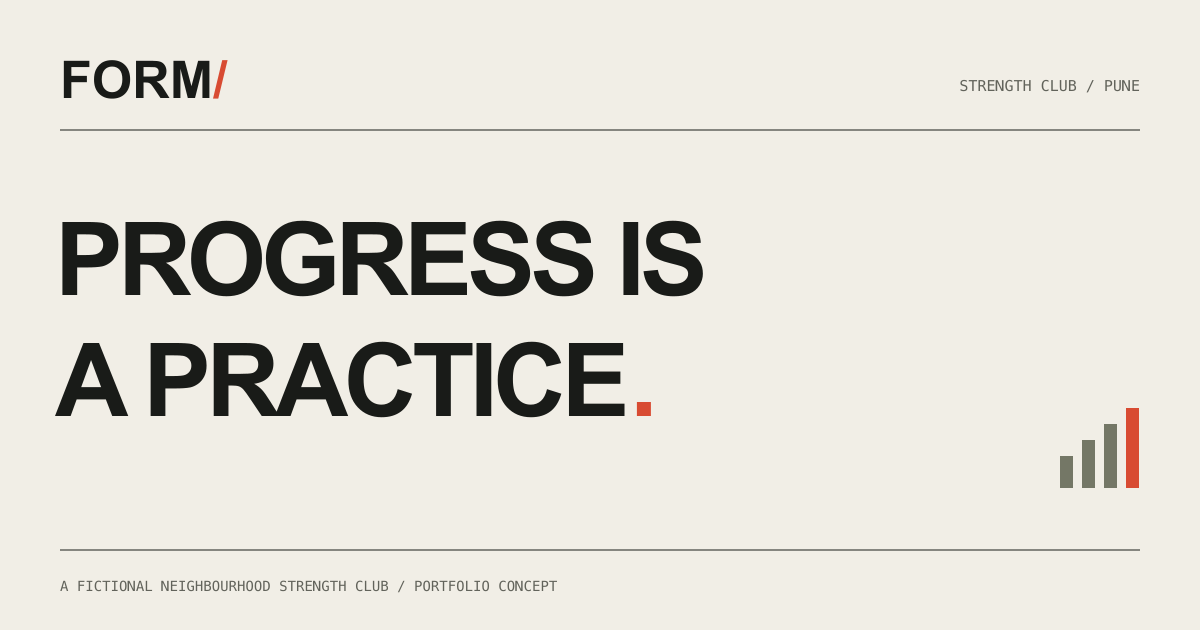
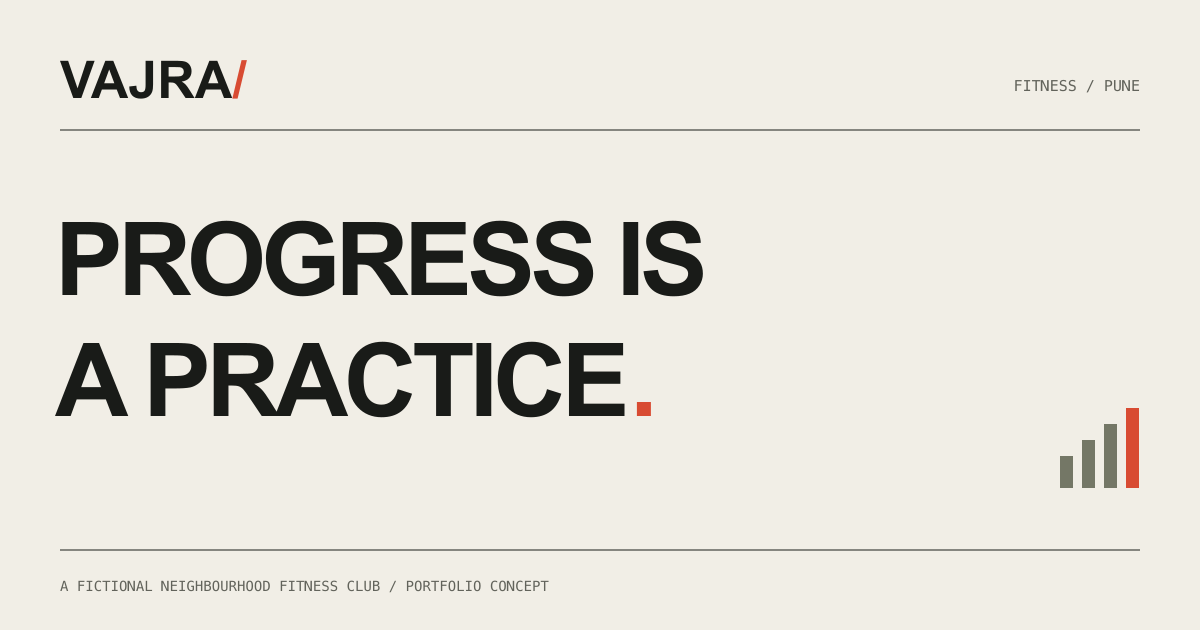
fix:finalised for deployment

Changed region(s): [[0.0308, 0.0905, 0.2158, 0.181], [0.2467, 0.9048, 0.4625, 0.9349], [0.8017, 0.1206, 0.8942, 0.1508]]

diff --git a/app/layout.tsx b/app/layout.tsx
@@ -26,17 +26,15 @@ const sans = localFont({
   display: "swap",
 });
 export const metadata: Metadata = {
-  metadataBase: new URL(
-    "https://form-strength-club-pune.lightmap1025.chatgpt.site",
-  ),
+  metadataBase: new URL("https://vajra-fitness-pune.lightmap1025.chatgpt.site"),
   title: {
-    default: "FORM / Strength Club — Progress is a practice.",
-    template: "%s / FORM Strength Club",
+    default: "VAJRA FITNESS — Progress is a practice.",
+    template: "%s / VAJRA FITNESS",
   },
   description:
-    "Strength training, thoughtful coaching, and a place to keep showing up. Explore FORM, a fictional neighbourhood strength club in Pune.",
+    "Strength training, thoughtful coaching, and a place to keep showing up. Explore VAJRA FITNESS, a fictional neighbourhood strength club in Pune.",
   openGraph: {
-    title: "FORM / Strength Club",
+    title: "VAJRA FITNESS",
     description:
       "Progress is a practice. A fictional neighbourhood strength club in Pune.",
     images: [
@@ -44,7 +42,7 @@ export const metadata: Metadata = {
         url: "/social.png",
         width: 1200,
         height: 630,
-        alt: "FORM Strength Club. Progress is a practice. Portfolio concept.",
+        alt: "VAJRA FITNESS. Progress is a practice. Portfolio concept.",
       },
     ],
     type: "website",
@@ -96,7 +94,8 @@ export default function RootLayout({
             </div>
             <div className="footer-bottom">
               <p>
-                FORM is a fictional portfolio concept. Images are AI-generated.
+                VAJRA FITNESS is a fictional portfolio concept. Images are
+                AI-generated.
                 <br />
                 No operating gym, real staff, or live bookings.
               </p>

diff --git a/lib/content.ts b/lib/content.ts
@@ -387,9 +387,9 @@ export const faqs = [
       "No. The sample memberships run month to month, with no joining fee or annual contract. Unused sessions do not roll over. Request cancellation before your next billing date. Production terms would be agreed with the club.",
   },
   {
-    question: "Where is FORM, and how do I contact you?",
+    question: "Where is VAJRA FITNESS, and how do I contact you?",
     answer:
-      "FORM is a fictional club set in the Baner neighbourhood of Pune. There is no operating address or phone number. Map, email, and WhatsApp integrations are intentionally inactive until a real gym’s verified details are supplied.",
+      "VAJRA FITNESS is a fictional club set in the Baner neighbourhood of Pune. There is no operating address or phone number. Map, email, and WhatsApp integrations are intentionally inactive until a real gym’s verified details are supplied.",
   },
 ];
 

diff --git a/components/ui.tsx b/components/ui.tsx
@@ -52,15 +52,11 @@ export function SectionLabel({
 }
 export function Wordmark() {
   return (
-    <Link className="brand" href="/" aria-label="FORM Strength Club home">
+    <Link className="brand" href="/" aria-label="VAJRA FITNESS home">
       <span className="wordmark">
-        FORM<span className="brand-slash">/</span>
+        VAJRA<span className="brand-slash">/</span>
       </span>
-      <span className="brand-descriptor">
-        STRENGTH
-        <br />
-        CLUB
-      </span>
+      <span className="brand-descriptor">FITNESS</span>
     </Link>
   );
 }

diff --git a/app/book/page.tsx b/app/book/page.tsx
@@ -6,7 +6,7 @@ import { BookingForm } from "@/components/booking-form";
 export const metadata: Metadata = {
   title: "Book your first session",
   description:
-    "Meet a coach. Try a session. Explore the demo enquiry for FORM Strength Club. No booking request will be sent.",
+    "Meet a coach. Try a session. Explore the demo enquiry for VAJRA FITNESS. No booking request will be sent.",
 };
 export default function BookPage() {
   return (

diff --git a/components/page-transitions.tsx b/components/page-transitions.tsx
@@ -162,7 +162,7 @@ export function PageTransitions({ children }: { children: ReactNode }) {
         <div className="route-curtain-panel" />
         <div className="route-curtain-word">
           <span>
-            FORM<span className="route-curtain-slash">/</span>
+            VAJRA<span className="route-curtain-slash">/</span>
           </span>
           <span className="mono">PROGRESS IS A PRACTICE.</span>
         </div>

diff --git a/components/motion-system.tsx b/components/motion-system.tsx
@@ -43,7 +43,7 @@ export function MotionSystem() {
         } catch (error) {
           document.documentElement.dataset.motion = "fallback";
           if (process.env.NODE_ENV === "development")
-            console.error("FORM motion could not start", error);
+            console.error("VAJRA motion could not start", error);
         }
       });
     };

diff --git a/app/not-found.tsx b/app/not-found.tsx
@@ -6,7 +6,7 @@ export default function NotFound() {
       <h1>
         LET’S GET
         <br />
-        BACK TO FORM.
+        BACK TO VAJRA.
       </h1>
       <p>This page isn’t part of the training plan.</p>
       <Link className="button" href="/">

diff --git a/app/experience.css b/app/experience.css
@@ -1,4 +1,4 @@
-/* FORM / day and night editions. The original page remains the static fallback. */
+/* VAJRA / day and night editions. The original page remains the static fallback. */
 :root {
   --surface-alt: #e8e6dc;
   --surface-olive: #e3e4d9;

diff --git a/README.md b/README.md
@@ -1,4 +1,4 @@
-# FORM / Strength Club
+# VAJRA FITNESS
 
 A complete Next.js App Router + TypeScript portfolio concept for a fictional neighbourhood gym in Baner, Pune. The visual idea is an independent sports magazine crossed with a training journal: warm chalk, ink, condensed type, documentary concept photography, numbered entries, and vermilion progress marks.
 
@@ -34,7 +34,7 @@ The build produces a static export in `out/`, including the homepage, `/book/`, 
 
 ## Demo boundaries
 
-FORM is fictional. Programme structures, named coach personas, prices, policies, hours, and sessions are illustrative. No awards, reviews, capacity claims, qualifications, or results are fabricated. Every person and facility in the photographs is AI-generated. No map, phone, email, or WhatsApp link represents an operating business.
+VAJRA FITNESS is fictional. Programme structures, named coach personas, prices, policies, hours, and sessions are illustrative. No awards, reviews, capacity claims, qualifications, or results are fabricated. Every person and facility in the photographs is AI-generated. No map, phone, email, or WhatsApp link represents an operating business.
 
 The booking demo has **no network submission, personal-data storage, analytics, or CRM**. It accepts sample entries only in React memory and clears them on completion. A selected training/session ID can be carried in the URL; contact details never enter the URL. Closing or reloading the page discards entries. A real enquiry would still require the club to confirm a time.
 

diff --git a/docs/MOTION-DIRECTION.md b/docs/MOTION-DIRECTION.md
@@ -1,4 +1,4 @@
-# FORM / the moving edition
+# VAJRA / the moving edition
 
 ## Reference study
 
@@ -12,7 +12,7 @@ Observed principles:
 - About uses an offset photograph sequence whose relative positions and scales change during scrolling, followed by a large contrasting type composition.
 - Large blocks, open space, and changes between light/dark imagery provide the rhythm. Motion is part of that hierarchy rather than decoration applied identically to every item.
 
-FORM interprets these principles through its own training-journal identity. No reference composition, brand asset, image, or source code was copied. The site retains readable programme comparisons, schedule filters, prices, and the first-session journey.
+VAJRA interprets these principles through its own training-journal identity. No reference composition, brand asset, image, or source code was copied. The site retains readable programme comparisons, schedule filters, prices, and the first-session journey.
 
 ## Photograph treatment
 

diff --git a/docs/ASSETS.md b/docs/ASSETS.md
@@ -67,7 +67,7 @@ Two font families, three loaded weights; approximately 56 KB total before transf
 
 ## Original graphics
 
-The FORM wordmark is an original typographic treatment. The slash, arrows, rules, plus signs, session numbers, progress bars, and round “one session at a time” annotation are native SVG/CSS/HTML treatments made for this project. No reference-site graphics were used.
+The VAJRA wordmark is an original typographic treatment. The slash, arrows, rules, plus signs, session numbers, progress bars, and round “one session at a time” annotation are native SVG/CSS/HTML treatments made for this project. No reference-site graphics were used.
 
 - `public/icon.svg`: original F/slash favicon.
 - `public/social.png`: original 1200×630 social sharing fallback, generated from the SVG source embedded in `scripts/prepare-assets.mjs`.

diff --git a/docs/CASE-STUDY.md b/docs/CASE-STUDY.md
@@ -1,4 +1,4 @@
-# FORM / Progress is a practice
+# VAJRA / Progress is a practice
 
 ## Problem
 
